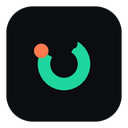
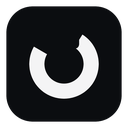
fix: stop the overlay flickering, restore its clicks, redraw the mark
Three defects, all introduced by the slide-in animation.

The overlay opened and collapsed in a loop under a pointer that never moved.
The edge strip runs the full height of the window while the notch is far
shorter, so opening dropped the pointer out of the watched set, which
collapsed it, which restored the strip. The strip is watched in every state
now. Holding the pointer still at seven heights for three seconds each: eleven
title transitions before, one after, at every height.

The cells were not clickable once open. TranslatePoint walks the render
transform, so while the notch slid in every region was reported up to 120
device-independent pixels off the window, and nothing recomputed regions when
the transition ended. Regions are reported at the resting position now by
subtracting the live slide offset.

A sporadic single collapse survived both fixes. UpdateInteractiveRegions
emptied both caches when GetClientRect failed, and empty hover regions mean
the pointer is outside. Hover regions are kept on that failure. Interactive
regions are still cleared, because that leaves the window click-through, which
is the safe direction for a failure.

The mark is redrawn. Only the first frame was passed to the ICO writer, so
Pillow resampled the 256 image for every smaller entry and threw away the
hand-rendered ones; that is why it looked soft. Every entry is now verified
byte-identical to its hand-rendered source. The ring is a filled annulus
[…]

Changed region(s): [[0.2188, 0.25, 0.7812, 0.7812]]

diff --git a/scripts/New-AppIcon.py b/scripts/New-AppIcon.py
@@ -16,29 +16,32 @@ import os
 
 from PIL import Image, ImageDraw
 
-# Brand tokens. The tile is the overlay surface and the accents are the two provider colours the
-# application already uses, so the icon is built from the running palette rather than a separate one.
+# Brand tokens. The tile is the overlay's own surface colour and the ring is the same near-white the
+# overlay writes its numbers in, so the icon is built from the running palette.
+#
+# The ring is deliberately not a provider colour. It carried OpenAI's green and a dot in Anthropic's
+# clay, which made a tool that belongs to neither look like it belonged to one of them, and the dot read
+# as a detached blob at small sizes. White also holds its shape at a sixteen pixel entry, where a
+# saturated hue on near-black loses contrast.
 TILE = (11, 13, 16, 255)
-ARC = (31, 214, 159, 255)       # OpenAI accent
-HEAD = (255, 122, 77, 255)      # Anthropic accent
+ARC = (244, 244, 245, 255)
 
 # Geometry in a 0..1 canvas. Every value is a fraction of the icon's edge, so one definition scales to
 # every raster size and to the vector.
 INSET = 0.050                   # keeps the tile off the canvas edge so it survives Windows padding
 CORNER = 0.205                  # tile corner radius
 RING_CENTRE = (0.5, 0.5)
-RING_RADIUS = 0.205             # centreline of the stroke
-RING_STROKE = 0.098
+RING_RADIUS = 0.212             # centreline of the stroke
+RING_STROKE = 0.118
 RING_START_DEGREES = -58.0      # leaves the ring at the notch's right wall
 RING_SWEEP_DEGREES = 268.0
-HEAD_RADIUS = 0.056
-NOTCH_HALF_WIDTH = 0.105        # half the flat span of the notch cut through the ring
+NOTCH_HALF_WIDTH = 0.118        # half the flat span of the notch cut through the ring
 NOTCH_FLOOR = 0.380             # reaches past the inner edge of the ring, so the cut is complete
 NOTCH_CORNER = 0.040            # convex rounding at the notch floor
 
 SIZES = (256, 128, 64, 48, 32, 24, 16)
-SUPERSAMPLE = 8
-CURVE_STEPS = 24
+SUPERSAMPLE = 16
+CURVE_STEPS = 48
 
 
 def quadratic(start, control, end, steps=CURVE_STEPS):
@@ -100,6 +103,18 @@ def notch_outline():
     return points
 
 
+def annulus_sector(centre, radius, stroke, start_degrees, sweep_degrees, steps=None):
+    """Builds a filled arc of even thickness, as an outer sweep followed by the inner sweep reversed."""
+    steps = steps or max(24, int(abs(sweep_degrees) / 2))
+    outer, inner = [], []
+    for step in range(steps + 1):
+        angle = math.radians(start_degrees + sweep_degrees * step / steps)
+        cos, sin = math.cos(angle), math.sin(angle)
+        outer.append((centre[0] + (radius + stroke / 2) * cos, centre[1] + (radius + stroke / 2) * sin))
+        inner.append((centre[0] + (radius - stroke / 2) * cos, centre[1] + (radius - stroke / 2) * sin))
+    return outer + inner[::-1]
+
+
 def draw_icon(size: int) -> Image.Image:
     """Draws at a multiple of the target size and downsamples, so small icons keep clean edges."""
     scale = size * SUPERSAMPLE
@@ -110,19 +125,12 @@ def draw_icon(size: int) -> Image.Image:
 
     centre = (RING_CENTRE[0] * scale, RING_CENTRE[1] * scale)
     radius = RING_RADIUS * scale
-    stroke = max(1, int(round(RING_STROKE * scale)))
-    box = [centre[0] - radius, centre[1] - radius, centre[0] + radius, centre[1] + radius]
+    stroke = RING_STROKE * scale
     # No unfilled track behind the sweep. At sixteen pixels a second grey ring only muddies
     # the shape, and the notch already carries the identity.
-    draw.arc(box, start=RING_START_DEGREES, end=RING_START_DEGREES + RING_SWEEP_DEGREES,
-             fill=ARC, width=stroke)
-
-    # The head marks where the sweep ends, in the second accent, so both providers are present.
-    end = math.radians(RING_START_DEGREES + RING_SWEEP_DEGREES)
-    head = (centre[0] + radius * math.cos(end), centre[1] + radius * math.sin(end))
-    head_radius = HEAD_RADIUS * scale
-    draw.ellipse([head[0] - head_radius, head[1] - head_radius,
-                  head[0] + head_radius, head[1] + head_radius], fill=HEAD)
+    draw.polygon(
+        annulus_sector(centre, radius, stroke, RING_START_DEGREES, RING_SWEEP_DEGREES),
+        fill=ARC)
 
     # The notch is drawn last, in the tile colour, so it cuts the ring rather than sitting on it.
     draw.polygon([(x * scale, y * scale) for x, y in notch_outline()], fill=TILE)
@@ -171,7 +179,6 @@ def build_svg(size: int = 256) -> str:
         ' rx="{corner:.3f}" fill="{tile}"/>',
         '  <path d="M {sx:.3f},{sy:.3f} A {r:.3f},{r:.3f} 0 {large} 1 {ex:.3f},{ey:.3f}"'
         ' fill="none" stroke="{arc}" stroke-width="{stroke:.3f}"/>',
-        '  <circle cx="{ex:.3f}" cy="{ey:.3f}" r="{head:.3f}" fill="{headfill}"/>',
         '  <path d="{notch}" fill="{tile}"/>',
         "</svg>",
         "",
@@ -179,9 +186,9 @@ def build_svg(size: int = 256) -> str:
 
     return chr(10).join(lines).format(
         size=size, inset=inset, side=side, corner=CORNER * size, tile=to_hex(TILE),
-        arc=to_hex(ARC), headfill=to_hex(HEAD), r=radius, stroke=RING_STROKE * size,
+        arc=to_hex(ARC), r=radius, stroke=RING_STROKE * size,
         sx=start_point[0], sy=start_point[1], ex=end_point[0], ey=end_point[1],
-        large=large, head=HEAD_RADIUS * size, notch=notch,
+        large=large, notch=notch,
     )
 
 def main() -> None:
@@ -190,7 +197,8 @@ def main() -> None:
 
     icon = os.path.join(assets, "usenotch.ico")
     frames = [draw_icon(size) for size in SIZES]
-    frames[0].save(icon, format="ICO", sizes=[(size, size) for size in SIZES])
+    frames[0].save(icon, format="ICO", sizes=[(size, size) for size in SIZES],
+                   append_images=frames[1:])
     print("wrote {} ({} bytes, sizes {})".format(icon, os.path.getsize(icon), SIZES))
 
     svg = os.path.join(assets, "usenotch.svg")

diff --git a/src/UseNotch.Platform.Windows/Overlay/Win32OverlayWindowPlatform.cs b/src/UseNotch.Platform.Windows/Overlay/Win32OverlayWindowPlatform.cs
@@ -108,14 +108,30 @@ public sealed class Win32OverlayWindowPlatform : IOverlayWindowPlatform
 
         var clientRect = new NativeRect();
         var snapshot = _interactiveRegionProvider();
-        IReadOnlyList<PixelRect> regions = [];
-        IReadOnlyList<PixelRect> hoverRegions = [];
-        if (GetClientRect(_windowHandle, ref clientRect))
+        if (!GetClientRect(_windowHandle, ref clientRect))
         {
-            var clientSize = new PixelSize(clientRect.Right - clientRect.Left, clientRect.Bottom - clientRect.Top);
-            regions = OverlayRegionScaler.ToClientPixels(snapshot.Regions, snapshot.ClientSize, clientSize);
-            hoverRegions = OverlayRegionScaler.ToClientPixels(snapshot.HoverRegions, snapshot.ClientSize, clientSize);
+            // The client rect can fail transiently while the window is being restyled. The two caches
+            // are treated differently on that failure, because the safe answer differs.
+            //
+            // Interactive regions are cleared: with none, the window is click-through, so a failure here
+            // can never capture input the overlay does not own.
+            //
+            // Hover regions are kept. Emptying them says the pointer is outside the overlay, which
+            // collapsed it under a pointer that had not moved and then reopened it on the next poll.
+            // The last known regions are stale for at most one poll; claiming the overlay occupies
+            // nothing is wrong immediately.
+            lock (_gate)
+            {
+                _cachedRegions = [];
+            }
+
+            ApplyClickThrough();
+            return;
         }
+
+        var clientSize = new PixelSize(clientRect.Right - clientRect.Left, clientRect.Bottom - clientRect.Top);
+        var regions = OverlayRegionScaler.ToClientPixels(snapshot.Regions, snapshot.ClientSize, clientSize);
+        var hoverRegions = OverlayRegionScaler.ToClientPixels(snapshot.HoverRegions, snapshot.ClientSize, clientSize);
 
         lock (_gate)
         {

diff --git a/DEVELOPMENT_BUILD_PLAN.md b/DEVELOPMENT_BUILD_PLAN.md
@@ -62,7 +62,7 @@ Update this block before stopping or handing off. Replace stale values instead o
 
 | Field | Current value |
 |---|---|
-| Overall state | M00-M11 are complete. M12's packaging works and is validated structurally; its disposable-environment install matrix is outstanding, as is all of M13 and M14. `v0.1.5` is published as the latest release and is publicly downloadable. It is unsigned and predates M14, so R01 stays unchecked |
+| Overall state | M00-M11 are complete. M12's packaging works and is validated structurally; its disposable-environment install matrix is outstanding, as is all of M13 and M14. `v0.1.6` is published as the latest release and is publicly downloadable. It is unsigned and predates M14, so R01 stays unchecked |
 | Active milestone | M12's install matrix, then M13 and M14. R01 stays unchecked: a prerelease published ahead of the gate does not satisfy an acceptance that requires a tested signed candidate |
 | Last completed milestone | M11, MVP cache verification and explicit history deferral |
 | Last validated checkpoint | Provider integration checkpoint `637d397` (`chore: checkpoint M07 provider integration`); Codex alternate-schema fix `655ad2f`; overlay regression fix `1203d52`; M06 synthetic checkpoint `929716a`; M05 `5586660`; M00 `4d10e83`; M01 `254447a`; M02 `c15d86a`; M04 `9fd1928`. |
@@ -158,6 +158,8 @@ Append one entry at each milestone completion or meaningful partial handoff. Kee
 | Overlay presentation | 2026-09-08, Windows 11 x64 build 26200, 175% display scale, verified by screenshotting the running overlay with each provider's callout open | Four requested changes. Claude now occupies the top cell and Codex the bottom. The callout sits 8 device-independent pixels clear of the notch instead of touching it. The callout's tail is positioned from code so it points at whichever ring was opened; it was centred before, which only ever looked right for a middle cell that does not exist with two providers. Aiming was corrected once during this change: pointing at the cell put the tail visibly low, because a cell also contains the percentage label, so it aims at the ring. Severity bands changed from a single 80% caution threshold to green below 50%, yellow to 79%, red from 80%, and the ring now takes the same severity colour as the detail bars. That removes the provider accent from the ring deliberately: the same colour previously meant 'this is Claude' in one state and 'this is fine' in another, and the provider mark inside the ring already carries identity. | `artifacts/notch-shots` showing both callouts, the tail aimed at each ring, a 53% reading rendering yellow and a 19% reading rendering green (not committed: they show real quota values) | Zero-warning Release build, 314 tests with the new band boundaries pinned on both sides, `dotnet format --verify-no-changes`, `git diff --check` |
 
 | Ring colour and entrance | 2026-09-08, Windows 11 x64 build 26200, 175% display scale, verified against the running overlay | Two changes. The notch rings return to the provider brand accents at every percentage, reverting the previous entry's decision to colour them by usage; the detail bars keep the green, yellow, red bands. The split is now the rule: a ring answers which provider, a bar answers how close to the limit. A ring drops its accent only when there is no reading, which is not a percentage. Because this rule has now changed twice, it is pinned by tests across all three severities for both providers, plus the unavailable case and the two accents being distinct. Second, the notch slides in from behind the screen edge and fades up over roughly 0.2s instead of appearing at full size. The resting values are applied in a later dispatcher pass, because setting them in the same pass that made the notch visible leaves the transition nothing to animate from. A reduced-motion preference places the notch directly at rest and skips the animation, and a missing transform falls back to the resting state rather than leaving the notch invisible. | Screenshot of the open notch showing Claude's accent at 58% and a grey ring for a provider with no reading (not committed: real quota values) | Zero-warning Release build, 319 tests, `dotnet format --verify-no-changes`, `git diff --check` |
+
+| Overlay stability and mark | 2026-09-08, Windows 11 x64 build 26200, 175% display scale, measured against the running overlay | Three defects, all introduced by the slide-in animation added the release before. First, the overlay opened and collapsed in a loop under a pointer that never moved: the edge strip runs the full window height while the notch is far shorter, so opening dropped the pointer out of the watched set. The strip is now watched in every state, which is the hysteresis the design needed. Measured by holding the pointer still at seven heights for three seconds each: eleven title transitions before, one after, at every height. Second, the notch's cells were not clickable once open. `TranslatePoint` walks the render transform, so during the slide every region was reported up to 120 device-independent pixels off the window, and nothing recomputed regions when a transition ended. Regions are now reported at the resting position by subtracting the live slide offset. Third, a sporadic single collapse remained: `UpdateInteractiveRegions` emptied both caches when `GetClientRect` failed, and empty hover regions mean the pointer is outside. Hover regions are now kept on that failure while interactive regions are still cleared, because clearing those leaves the window click-through, which is the safe direction. The mark was also rebuilt: `New-AppIcon.py` passed only the first frame to the ICO writer, so Pillow resampled the 256 image for every smaller entry and discarded the hand-rendered ones, which is what made it look soft. Each entry is now verified byte-identical to its hand-rendered source. The ring is drawn as a filled annulus sector rather than a stroked arc, and it is now near-white rather than OpenAI's green with a dot in Anthropic's clay: a tool that belongs to neither provider should not wear one provider's colour. | Probe output for both builds, and a per-size comparison of the ICO entries against freshly rendered ones | Zero-warning Release build, 319 tests, `dotnet format --verify-no-changes`, `git diff --check`, `Test-VersionAgreement.ps1 -Tag v0.1.6`, and `scripts/Test-OverlayBehavior.ps1` passing, which is what proves the cells are clickable again while transparent space still belongs to another process |
 
 Use milestone IDs as checkpoint references until a short hash can be recorded in a later update. For manual tests, include Windows build, app build, DPI/monitor layout, and result. Store only sanitized evidence; no screenshots with account data or conversation content.
 
